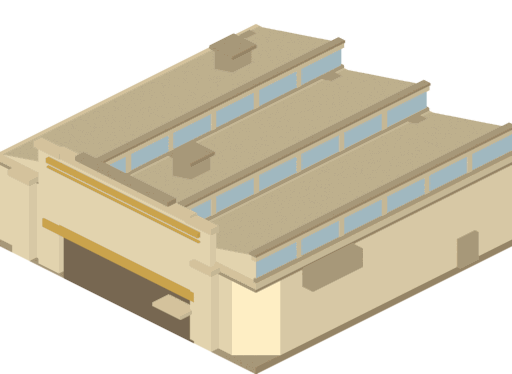
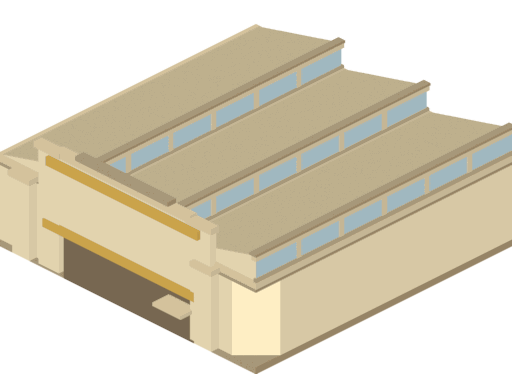
fix(lot): close authored Stage B release defects
Release-closure pass on top of the frozen Checkpoint C candidate (032dd16),
correcting the three defects the runtime review found at the camera players
actually use. Reduction, not redesign — every correction removes something.

Roof units: all three removed. At the management camera they were ~10x8 px
with no face separation and no cast shadow, so they read as smudges rather
than equipment; three independent reviewers found them weak and the runtime
reviewer suggested dropping them. They carried no gameplay information and
were not part of the hero silhouette. The roof architecture — sawtooth,
fascia, ridge caps, mullioned clerestory — is untouched.

Header pinstripes: the twin ~1px diagonals aliased into a beaded chain at
management zoom. Now one band, thicker, reading as intentional trim.

Wall micro-detail: the two flat single-tone panels on the shadowed elevation
read as faint stains at management zoom and are deleted rather than
reinforced, leaving that face plain as the procedural control leaves it.

Everything else is held: canvas 512x374, bottom vertex 373, anchor, footprint,
camera, palette, bottom edge, entrance pavilion, elephant door, door-glow
calibration, parapet, clerestory and signage zone all unchanged. Raw
normal/worn geometry delta remains 0 px and worn decorative brass remains 0.

Evidence quality also closed: comparison and selection frames are now captured
with the developer review chrome disabled so nothing in an image can reveal
[…]

diff --git a/ui/e2e/authored-stage-proof.spec.ts b/ui/e2e/authored-stage-proof.spec.ts
@@ -34,30 +34,40 @@ test.beforeAll(() => {
 
 const fixture = (name: string) => readFileSync(join(fixturesDir, `${name}.json`), 'utf8')
 
-async function seed(page: Page, fixtureName: string, authored: boolean) {
+/**
+ * `chrome` seeds the dev review tooling (perf panel + closer-camera toolbar). Comparison
+ * frames are captured with it OFF so no developer UI can leak which implementation is
+ * active into an image a blind reviewer will see.
+ */
+async function seed(page: Page, fixtureName: string, authored: boolean, chrome = true) {
   await page.addInitScript(
-    ([key, json, f1, f2, f3, f4, on]) => {
+    ([key, json, f1, f2, f3, f4, on, dev]) => {
       try {
         localStorage.setItem(key as string, json as string)
         localStorage.setItem(f1 as string, '1') // lot overview
-        localStorage.setItem(f2 as string, '1') // identity proof -> dev perf panel
-        localStorage.setItem(f3 as string, '1') // soundstage review tooling (closer camera)
+        if (dev) {
+          localStorage.setItem(f2 as string, '1') // identity proof -> dev perf panel
+          localStorage.setItem(f3 as string, '1') // soundstage review tooling
+        } else {
+          localStorage.removeItem(f2 as string)
+          localStorage.removeItem(f3 as string)
+        }
         if (on) localStorage.setItem(f4 as string, '1')
         else localStorage.removeItem(f4 as string)
       } catch {
         /* ignore */
       }
     },
-    [ACTIVE_SESSION_KEY, fixture(fixtureName), OVERVIEW_FLAG, IDENTITY_FLAG, SOUNDSTAGE_PROOF_FLAG, AUTHORED_FLAG, authored] as const,
+    [ACTIVE_SESSION_KEY, fixture(fixtureName), OVERVIEW_FLAG, IDENTITY_FLAG, SOUNDSTAGE_PROOF_FLAG, AUTHORED_FLAG, authored, chrome] as const,
   )
   await page.goto('/')
   await expect(page.getByTestId('dash-week')).toBeVisible()
 }
 
-async function openLot(page: Page) {
+async function openLot(page: Page, chrome = true) {
   await page.getByTestId('open-studio-lot').click()
   await expect(page.getByTestId('studio-lot-screen')).toBeVisible()
-  await expect(page.getByTestId('lot-perf-panel')).toBeVisible()
+  if (chrome) await expect(page.getByTestId('lot-perf-panel')).toBeVisible()
   await page.waitForTimeout(1400)
 }
 
@@ -135,9 +145,11 @@ test('flag ON but asset unavailable: falls back to procedural, lot still works',
  * for the swap: opaque building pixels must select, transparent ones must not.
  */
 test('authored Stage B is selectable, and its transparent margin is not', async ({ page }) => {
-  await seed(page, 'two', true)
-  await openLot(page)
-  expect((await stageB(page)).authored).toBe(true)
+  // No dev chrome: this frame is shown to blind reviewers, so nothing in it may
+  // reveal which implementation is active. The authored texture is asserted by the
+  // dedicated flag-ON test above.
+  await seed(page, 'two', true, false)
+  await openLot(page, false)
   const canvas = page.getByTestId('studio-lot-canvas')
   const box = (await canvas.boundingBox())!
   const panel = page.getByTestId('lot-selection-panel')
@@ -208,11 +220,8 @@ test('displayObjects: authored vs procedural, identical state', async ({ page })
 
 for (const [leg, authored] of [['old', false], ['new', true]] as const) {
   test(`evidence ${leg}: management, active production, closer, worn`, async ({ page }) => {
-    await seed(page, 'two', authored)
-    await openLot(page)
-    const s = await stageB(page)
-    expect(s.texture).toBe(authored ? AUTHORED_KEY : PROCEDURAL_KEY)
-    await hideOverlay(page)
+    await seed(page, 'two', authored, false)
+    await openLot(page, false)
     await shot(page, `${leg === 'old' ? 'A' : 'B'}-management-active-${leg}`)
     await page.waitForTimeout(2500) // let crew/vehicles move — character movement near Stage B
     await shot(page, `H-character-movement-${leg}`)
@@ -230,16 +239,14 @@ for (const [leg, authored] of [['old', false], ['new', true]] as const) {
   })
 
   test(`evidence ${leg}: underDressed`, async ({ page }) => {
-    await seed(page, 'undressed', authored)
-    await openLot(page)
-    await hideOverlay(page)
+    await seed(page, 'undressed', authored, false)
+    await openLot(page, false)
     await shot(page, `${leg === 'old' ? 'F' : 'E'}-underdressed-${leg}`)
   })
 
   test(`evidence ${leg}: whole frame with Stage A`, async ({ page }) => {
-    await seed(page, 'two', authored)
-    await openLot(page)
-    await hideOverlay(page)
+    await seed(page, 'two', authored, false)
+    await openLot(page, false)
     await shot(page, `L-whole-frame-${leg}`)
   })
 }
@@ -254,10 +261,12 @@ for (const [leg, authored] of [['old', false], ['new', true]] as const) {
   test(`evidence ${leg}: occlusion burst around Stage B`, async ({ page }) => {
     await seed(page, 'two', authored)
     await openLot(page)
+    await page.getByTestId('lot-review-closer').click()
+    await page.waitForTimeout(900)
     await hideOverlay(page)
-    for (let i = 0; i < 10; i++) {
+    for (let i = 0; i < 14; i++) {
       await shot(page, `M-occlusion-burst-${leg}-${String(i).padStart(2, '0')}`)
-      await page.waitForTimeout(1500)
+      await page.waitForTimeout(1200)
     }
   })
 }

diff --git a/docs/LESSONS-LEARNED.md b/docs/LESSONS-LEARNED.md
@@ -1367,7 +1367,19 @@ rather than a physical one.
   acquired, hashed — and then **not used**, because it contributes nothing resolvable at that size
   and its material noise is precisely the failure mode above. Hero identity was authored; commodity
   reuse turned out to be optional rather than necessary.
+- **Detail must COLLAPSE cleanly, not merely exist (release-closure amendment).** Runtime review of
+  the integrated asset found the opposite failure to **AI**: not defects hidden by the management
+  camera, but detail that is correct close up and becomes *noise* at the camera players actually use.
+  Three roof units (~10x8 px at management scale) read as smudges, twin ~1px diagonal pinstripes
+  aliased into a beaded chain, and two flat single-tone wall panels read as stains. All three were
+  **removed**, not reinforced. The resulting rule, adopted as Art direction: a detail that only exists
+  at close zoom must not damage the building at the primary management camera — it may resolve away,
+  but it may not become dots, stains, smudges or broken diagonals. Note the pairing: **AI** says the
+  management camera can *hide* a blocker, this says it can *manufacture* one. Both are reasons to
+  review at both distances and to let the primary camera arbitrate.
 - **Pattern:** constrain the offline render to the destination's shading convention and palette, and
-  judge it on colour count and edge softness against the art it replaces, not on render realism.
+  judge it on colour count and edge softness against the art it replaces, not on render realism; set
+  the detail budget at the primary camera and delete anything that cannot survive it.
   **Anti-pattern:** assuming a 3D render must be softened *toward* the 2D target; treating "cleared
-  for use" as "should be used". **Related:** **AT**, **AU**. **Reuse:** MG, BR.
+  for use" as "should be used"; keeping detail because effort went into it.
+  **Related:** **AI** (its mirror image), **AT**, **AU**. **Reuse:** MG, BR.

diff --git a/docs/art/AUTHORED-SOUNDSTAGE-PIPELINE-PROOF-PROVENANCE.md b/docs/art/AUTHORED-SOUNDSTAGE-PIPELINE-PROOF-PROVENANCE.md
@@ -4,11 +4,13 @@ Scope: the two runtime images added by this proof branch.
 
 | | |
 |---|---|
-| `ui/public/lot/b-stage-b.png` | 10,698 B · `sha256 1af7f85224a36fd9f1d481f556fa5bafd14285d7195f69d99160dee547fdeb7c` |
-| `ui/public/lot/b-stage-b-ud.png` | 9,355 B · `sha256 7b2454223e737e0241780a0dfd70e3845915dbc36c681165e5b0323032227187` |
+| `ui/public/lot/b-stage-b.png` | 10,161 B · `sha256 d539af1da5c140f7142d4b859ecabad602c504c60a6e91d9aa2bab8bf47bf349` |
+| `ui/public/lot/b-stage-b-ud.png` | 8,535 B · `sha256 f04e47dfbe02655ae67c92731c0d977fe131f5806177a87c81e7ec98c7fefbae` |
 
 Both are 512 × 374 RGBA PNG-8, quantised against a **shared** palette so the two finishes cannot
-differ by a stray alpha pixel. Authored offline in Blender 5.2.0 LTS; the `.blend` source, render
+differ by a stray alpha pixel. Release-closure revision: the three roof units, one of the twin header pinstripes and the two
+flat wall panels were removed after runtime review found them illegible at the management camera.
+Authored offline in Blender 5.2.0 LTS; the `.blend` source, render
 intermediates and all acquired source archives stay outside this repository.
 
 ## What is actually in these files
